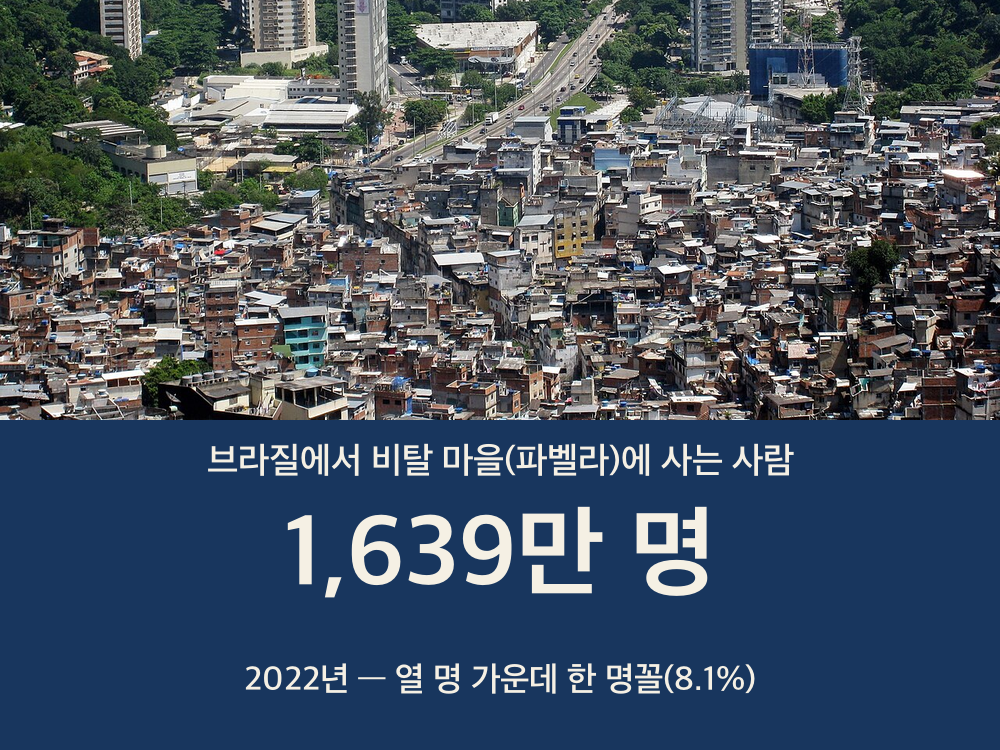
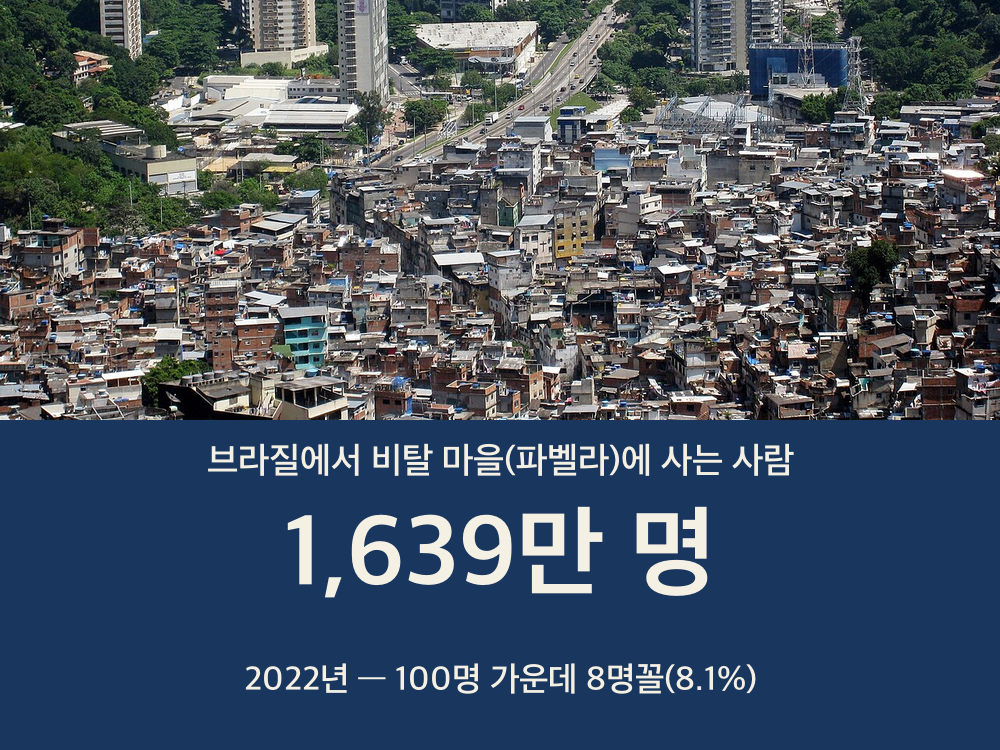
사회② 7-6 역사 학생 눈 반영: 파벨라 8.1%를 «100명 가운데 8명꼴»로(카드 그림 포함)·인구 관성 카드 끝에 «오래 이어지면 결국엔 준다» — 메인 검증 🔴0·🟡0(baa1938)
Claude-Session: https://claude.ai/code/session_0112jfuNjXUAgEuhZG5Yg8vB

Changed region(s): [[0.372, 0.8893, 0.775, 0.9507]]

diff --git a/worksheets/7-6차시_개발도상국의인구문제_개념편.html b/worksheets/7-6차시_개발도상국의인구문제_개념편.html
@@ -1383,7 +1383,7 @@ details.v2t-legend ul{margin-top:10px}
 </section><section class="ws-sw-pane" data-i="3" hidden><h3 class="ws-sw-h">7-5에서 본 막대, 다시</h3>
 <figure class="ws-fig"><a class="ws-fig-zoom" href="images/7-5_graph_agebars.png" target="_blank" rel="noopener" title="눌러서 크게 보기"><img src="images/7-5_graph_agebars.png" alt="같은 해, 이렇게 다르다 — 중앙아프리카공화국·세계 평균·일본의 나이대별 몫(2025년, 세계은행 자료 · UN 추계)" loading="lazy"></a><figcaption>같은 해, 이렇게 다르다 — 중앙아프리카공화국·세계 평균·일본의 나이대별 몫(2025년, 세계은행 자료 · UN 추계)</figcaption></figure>
 <p>7-5에서 이 막대를 보며 '다음 시간에 다시 본다'고 했지? 중앙아프리카공화국은 사람 둘 가운데 한 명꼴(49%)이 14세 이하다. 개발 도상국에는 이렇게 아이와 젊은 사람이 많은 나라가 많다.</p>
-<blockquote>🎙 이 아이들이 자라 부모가 될 나이가 되면 어떻게 될까? 한 집에 둘씩만 낳아도 그런 집이 워낙 많으면 전체 인구는 한동안 계속 늘어. 인도도 아이를 낳을 나이의 젊은 사람이 아주 많아서, 아이를 적게 낳기 시작했는데도 인구가 계속 느는 거야.</blockquote>
+<blockquote>🎙 이 아이들이 자라 부모가 될 나이가 되면 어떻게 될까? 한 집에 둘씩만 낳아도 그런 집이 워낙 많으면 전체 인구는 한동안 계속 늘어. 인도도 아이를 낳을 나이의 젊은 사람이 아주 많아서, 아이를 적게 낳기 시작했는데도 인구가 계속 느는 거야. 그래도 2.1명보다 적게 낳는 일이 오래 이어지면 결국엔 줄어. 바로 줄지 않을 뿐이야.</blockquote>
 </section></div><div class="ws-sw-nav"><button type="button" onclick="swStep('sw20',-1)">‹ 이전</button><span class="ws-sw-count"><b>1</b> / 4</span><button type="button" onclick="swStep('sw20',1)">다음 ›</button></div></div><script>(function(){if(!window.swGo){window.swGo=function(id,i){var g=document.getElementById(id);if(!g)return;var ps=g.querySelectorAll(".ws-sw-pane"),n=ps.length;i=((i%n)+n)%n;ps.forEach(function(e){e.hidden=(+e.dataset.i!==i);});g.querySelectorAll(".ws-sw-tab").forEach(function(e,k){e.classList.toggle("on",k===i);e.setAttribute("aria-selected",k===i);});var c=g.querySelector(".ws-sw-count b");if(c)c.textContent=i+1;g.dataset.cur=i;};window.swStep=function(id,d){var g=document.getElementById(id);if(g)swGo(id,(+(g.dataset.cur||0))+d);};}var g=document.getElementById("sw20"),x0=null,y0=null;if(!g)return;g.querySelector(".ws-sw-stage").addEventListener("touchstart",function(e){x0=e.touches[0].clientX;y0=e.touches[0].clientY;},{passive:true});g.querySelector(".ws-sw-stage").addEventListener("touchend",function(e){if(x0===null)return;var dx=e.changedTouches[0].clientX-x0,dy=e.changedTouches[0].clientY-y0;x0=null;if(Math.abs(dx)>60&&Math.abs(dx)>1.5*Math.abs(dy)){var t=e.target;if(t.closest&&t.closest("input,textarea,.ws-vcd-track,.ws-mb,.ws-gal,.pk-swipe"))return;swStep("sw20",dx<0?1:-1);g.scrollIntoView({block:"start",behavior:"smooth"});}},{passive:true});})();</script>
 <br>
 <h2>📖 2단계: 많이 태어나고 덜 죽는다</h2>
@@ -1418,13 +1418,13 @@ details.v2t-legend ul{margin-top:10px}
 <br>
 <div class="ws-tb"><div class="ws-tb-tag">📕 교과서 139쪽 · 사회 톡톡톡 「도시 인구 과밀로 골머리를 앓고 있는 나이지리아」</div><div class="ws-tb-ask">라고스의 많은 젊은이가 빈곤에 허덕이는 까닭을 교과서 글에서 찾아 적자. <input type="text" class="blank-input activity-input no-score" data-id="act-2" data-label="교과서 139쪽에서 찾기 — 라고스의 많은 젊은이가 빈곤에 허덕이는 까닭을 교과서 글에서 찾아 적" style="width:360px" placeholder=""></div></div>
 <br>
-<div class="ws-sw sw-news" id="sw67" data-cur="0"><div class="ws-sw-head">📰 다 쓴 뒤에 넘겨 보자 — 다른 대륙에도, 브라질 리우데자네이루</div><div class="ws-sw-tabs" role="tablist"><button type="button" role="tab" class="ws-sw-tab on" onclick="swGo('sw67',0)" aria-label="비탈 마을과 고층 아파트">1</button><button type="button" role="tab" class="ws-sw-tab" onclick="swGo('sw67',1)" aria-label="열 명 가운데 한 명꼴">2</button></div><div class="ws-sw-stage">
+<div class="ws-sw sw-news" id="sw67" data-cur="0"><div class="ws-sw-head">📰 다 쓴 뒤에 넘겨 보자 — 다른 대륙에도, 브라질 리우데자네이루</div><div class="ws-sw-tabs" role="tablist"><button type="button" role="tab" class="ws-sw-tab on" onclick="swGo('sw67',0)" aria-label="비탈 마을과 고층 아파트">1</button><button type="button" role="tab" class="ws-sw-tab" onclick="swGo('sw67',1)" aria-label="100명 가운데 8명꼴">2</button></div><div class="ws-sw-stage">
 <section class="ws-sw-pane" data-i="0"><h3 class="ws-sw-h">비탈 마을과 고층 아파트</h3>
 <figure class="ws-fig"><a class="ws-fig-zoom" href="images/7-6_photo_rocinha.jpg" target="_blank" rel="noopener" title="눌러서 크게 보기"><img src="images/7-6_photo_rocinha.jpg" alt="브라질 리우데자네이루 — 아래는 비탈 마을 호시냐, 위는 바닷가 고층 아파트 동네(2008년)" loading="lazy"></a><figcaption>브라질 리우데자네이루 — 아래는 비탈 마을 호시냐, 위는 바닷가 고층 아파트 동네(2008년)</figcaption></figure>
 <p>브라질도 빠르게 산업화하면서 농촌 사람들이 큰 도시로 몰렸다. 평지는 이미 땅값이 비싸서, 사람들은 도시 둘레 비탈에 스스로 집을 지어 마을을 이뤘다. 이런 마을을 '파벨라'라고 부른다. 사진 아래쪽 빽빽한 집들이 비탈 마을이고, 바로 위에 고층 아파트가 서 있다. 한 도시 안에 두 세계가 맞닿아 있다.</p>
-</section><section class="ws-sw-pane" data-i="1" hidden><h3 class="ws-sw-h">열 명 가운데 한 명꼴</h3>
+</section><section class="ws-sw-pane" data-i="1" hidden><h3 class="ws-sw-h">100명 가운데 8명꼴</h3>
 <figure class="ws-fig"><a class="ws-fig-zoom" href="images/7-6_card_favela_v2.png" target="_blank" rel="noopener" title="눌러서 크게 보기"><img src="images/7-6_card_favela_v2.png" alt="브라질에서 비탈 마을(파벨라)에 사는 사람 1,639만 명(2022년)" loading="lazy"></a><figcaption>브라질에서 비탈 마을(파벨라)에 사는 사람 1,639만 명(2022년)</figcaption></figure>
-<p>2022년 브라질 사람 1,639만 명, 열 명 가운데 한 명꼴(8.1%)이 이런 마을에 산다.</p>
+<p>2022년 브라질 사람 1,639만 명, 100명 가운데 8명꼴(8.1%)이 이런 마을에 산다.</p>
 <blockquote>🔍 1,639만 명과 8.1% — 어느 쪽이 센 수고 어느 쪽이 견준 값일까? 그리고 7-2에서 본 1960~80년대 서울의 '달동네'와 무엇이 닮았을까?</blockquote>
 </section></div><div class="ws-sw-nav"><button type="button" onclick="swStep('sw67',-1)">‹ 이전</button><span class="ws-sw-count"><b>1</b> / 2</span><button type="button" onclick="swStep('sw67',1)">다음 ›</button></div></div><script>(function(){if(!window.swGo){window.swGo=function(id,i){var g=document.getElementById(id);if(!g)return;var ps=g.querySelectorAll(".ws-sw-pane"),n=ps.length;i=((i%n)+n)%n;ps.forEach(function(e){e.hidden=(+e.dataset.i!==i);});g.querySelectorAll(".ws-sw-tab").forEach(function(e,k){e.classList.toggle("on",k===i);e.setAttribute("aria-selected",k===i);});var c=g.querySelector(".ws-sw-count b");if(c)c.textContent=i+1;g.dataset.cur=i;};window.swStep=function(id,d){var g=document.getElementById(id);if(g)swGo(id,(+(g.dataset.cur||0))+d);};}var g=document.getElementById("sw67"),x0=null,y0=null;if(!g)return;g.querySelector(".ws-sw-stage").addEventListener("touchstart",function(e){x0=e.touches[0].clientX;y0=e.touches[0].clientY;},{passive:true});g.querySelector(".ws-sw-stage").addEventListener("touchend",function(e){if(x0===null)return;var dx=e.changedTouches[0].clientX-x0,dy=e.changedTouches[0].clientY-y0;x0=null;if(Math.abs(dx)>60&&Math.abs(dx)>1.5*Math.abs(dy)){var t=e.target;if(t.closest&&t.closest("input,textarea,.ws-vcd-track,.ws-mb,.ws-gal,.pk-swipe"))return;swStep("sw67",dx<0?1:-1);g.scrollIntoView({block:"start",behavior:"smooth"});}},{passive:true});})();</script>
 <br>
